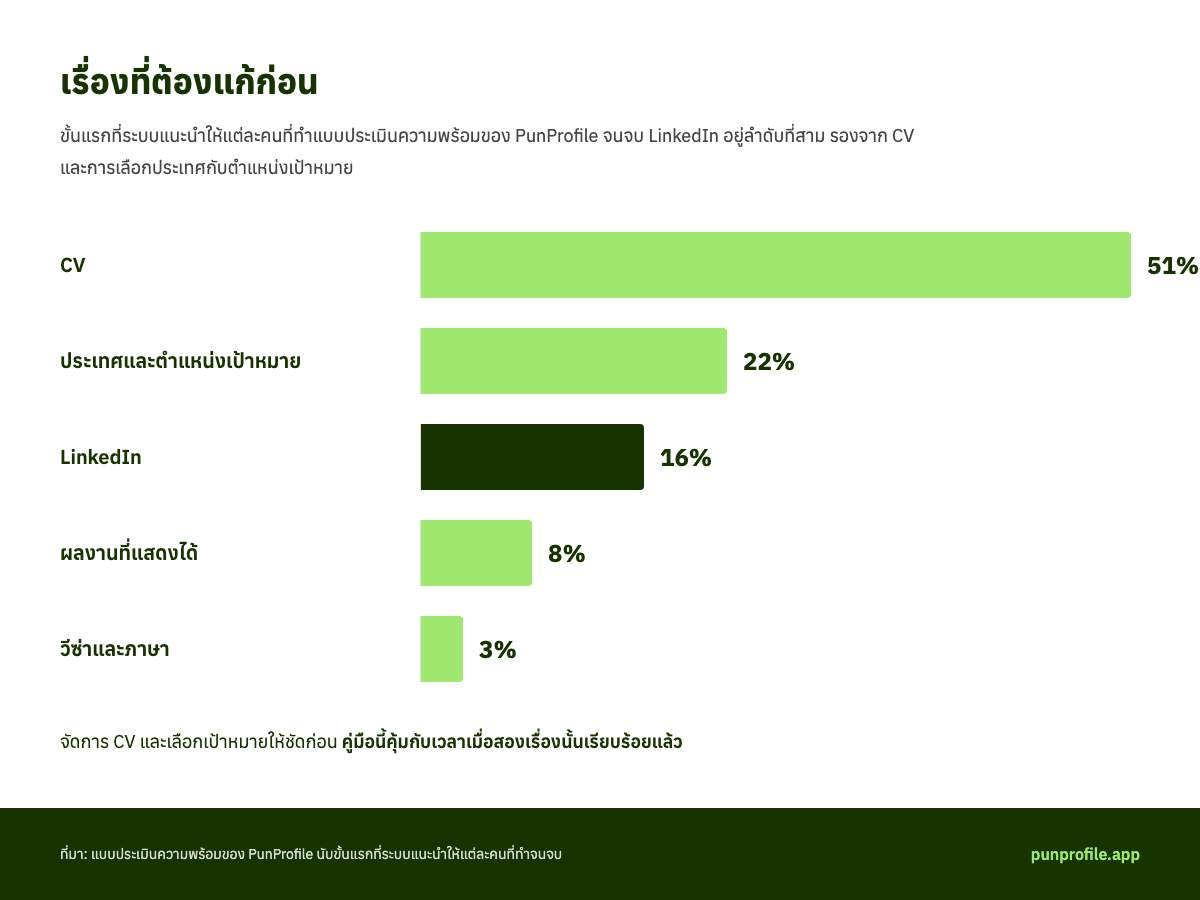
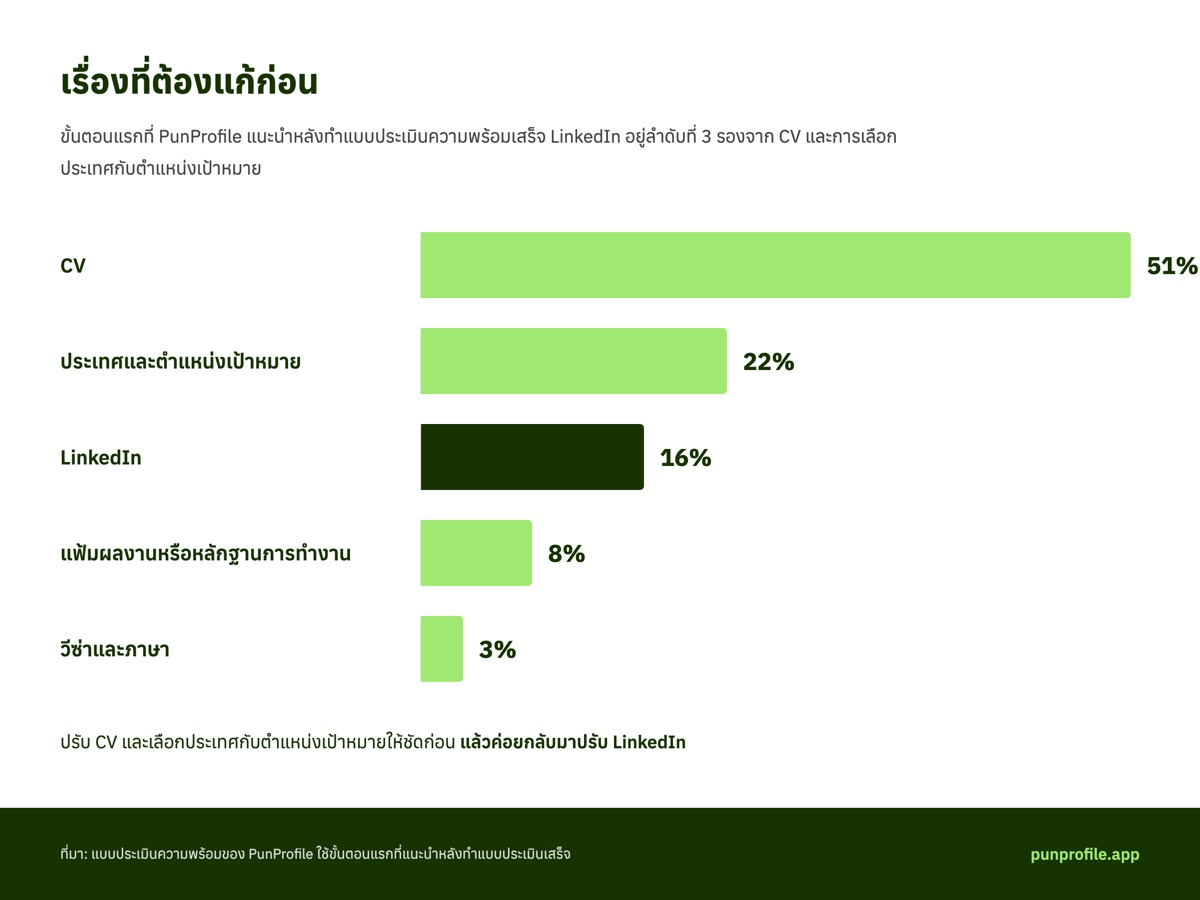
Carry the reviewed figure Thai into the records, and the English with it
Eight records: the hero alt, the SEO title, and the alt and caption on each of the three figures.
Seven took new Thai from the review pass, the SEO title was kept, and all eight now say in their
note that the pass happened.

The English moved with the Thai, because the Thai is the source. One of those is a correctness fix
rather than a translation: figure 3's caption said only the description of the scope changes, when
the employer line changes between the two cards as well. Figure 2's caption gained the limit the
article's own body already carries, that the recruiters-only setting lowers the chance the current
employer sees it without guaranteeing it, and the figure 2 alt text stopped implying the lamp turns
the cards green.

The two published figure images are re-cut from the rebuilt Thai figures.

`text_hash` recomputed for all seven changed records. Provenance stays `draft` and every verdict
stays `pending`: still 97 failures, all of them this article's, and still nothing that will build
until Paul reads the Thai back. Everything else on the pre-push list passes.

diff --git a/src/lib/content/language-notes.generated.ts b/src/lib/content/language-notes.generated.ts
@@ -5605,7 +5605,7 @@ export const LANGUAGE_DECISION_NOTES = {
     "narrativeSlot": "utility",
     "provenance": "draft",
     "date": "10/11/2026",
-    "decisionNote": "Figure, alt and title Thai composed by the agent on 10/11/2026. The delegated copy review of that day covered the article body and NOT this line, and Paul has not read it back, so it is neither reviewed nor approved. English is the agent's own. It is row F in the coaching repo's review sheet for this slug, out for a review pass. Upgrade provenance and set a structural_calque verdict only after that pass and his read-back."
+    "decisionNote": "Figure, alt and title Thai composed on 10/11/2026 and reviewed in a separate agent pass the same day, which the article body's own copy review had not covered. Paul has not read it back, so it is neither paul-written nor paul-approved. The English follows that reviewed Thai. Upgrade provenance and set a structural_calque verdict only after his read-back."
   },
   "src/lib/content/posts/linkedin-europe-ready.ts::LINKEDIN_EUROPE_READY.question": {
     "source": "src/lib/content/posts/linkedin-europe-ready.ts",
@@ -5965,7 +5965,7 @@ export const LANGUAGE_DECISION_NOTES = {
     "narrativeSlot": "utility",
     "provenance": "draft",
     "date": "10/11/2026",
-    "decisionNote": "Figure, alt and title Thai composed by the agent on 10/11/2026. The delegated copy review of that day covered the article body and NOT this line, and Paul has not read it back, so it is neither reviewed nor approved. English is the agent's own. It is row F in the coaching repo's review sheet for this slug, out for a review pass. Upgrade provenance and set a structural_calque verdict only after that pass and his read-back."
+    "decisionNote": "Figure, alt and title Thai composed on 10/11/2026 and reviewed in a separate agent pass the same day, which the article body's own copy review had not covered. Paul has not read it back, so it is neither paul-written nor paul-approved. The English follows that reviewed Thai. Upgrade provenance and set a structural_calque verdict only after his read-back."
   },
   "src/lib/content/posts/linkedin-europe-ready.ts::LINKEDIN_EUROPE_READY.sections[1].body[5].caption": {
     "source": "src/lib/content/posts/linkedin-europe-ready.ts",
@@ -5974,7 +5974,7 @@ export const LANGUAGE_DECISION_NOTES = {
     "narrativeSlot": "utility",
     "provenance": "draft",
     "date": "10/11/2026",
-    "decisionNote": "Figure, alt and title Thai composed by the agent on 10/11/2026. The delegated copy review of that day covered the article body and NOT this line, and Paul has not read it back, so it is neither reviewed nor approved. English is the agent's own. It is row F in the coaching repo's review sheet for this slug, out for a review pass. Upgrade provenance and set a structural_calque verdict only after that pass and his read-back."
+    "decisionNote": "Figure, alt and title Thai composed on 10/11/2026 and reviewed in a separate agent pass the same day, which the article body's own copy review had not covered. Paul has not read it back, so it is neither paul-written nor paul-approved. The English follows that reviewed Thai. Upgrade provenance and set a structural_calque verdict only after his read-back."
   },
   "src/lib/content/posts/linkedin-europe-ready.ts::LINKEDIN_EUROPE_READY.sections[1].body[6].text": {
     "source": "src/lib/content/posts/linkedin-europe-ready.ts",
@@ -6163,7 +6163,7 @@ export const LANGUAGE_DECISION_NOTES = {
     "narrativeSlot": "utility",
     "provenance": "draft",
     "date": "10/11/2026",
-    "decisionNote": "Figure, alt and title Thai composed by the agent on 10/11/2026. The delegated copy review of that day covered the article body and NOT this line, and Paul has not read it back, so it is neither reviewed nor approved. English is the agent's own. It is row F in the coaching repo's review sheet for this slug, out for a review pass. Upgrade provenance and set a structural_calque verdict only after that pass and his read-back."
+    "decisionNote": "Figure, alt and title Thai composed on 10/11/2026 and reviewed in a separate agent pass the same day, which the article body's own copy review had not covered. Paul has not read it back, so it is neither paul-written nor paul-approved. The English follows that reviewed Thai. Upgrade provenance and set a structural_calque verdict only after his read-back."
   },
   "src/lib/content/posts/linkedin-europe-ready.ts::LINKEDIN_EUROPE_READY.sections[4].body[4].caption": {
     "source": "src/lib/content/posts/linkedin-europe-ready.ts",
@@ -6172,7 +6172,7 @@ export const LANGUAGE_DECISION_NOTES = {
     "narrativeSlot": "utility",
     "provenance": "draft",
     "date": "10/11/2026",
-    "decisionNote": "Figure, alt and title Thai composed by the agent on 10/11/2026. The delegated copy review of that day covered the article body and NOT this line, and Paul has not read it back, so it is neither reviewed nor approved. English is the agent's own. It is row F in the coaching repo's review sheet for this slug, out for a review pass. Upgrade provenance and set a structural_calque verdict only after that pass and his read-back."
+    "decisionNote": "Figure, alt and title Thai composed on 10/11/2026 and reviewed in a separate agent pass the same day, which the article body's own copy review had not covered. Paul has not read it back, so it is neither paul-written nor paul-approved. The English follows that reviewed Thai. Upgrade provenance and set a structural_calque verdict only after his read-back."
   },
   "src/lib/content/posts/linkedin-europe-ready.ts::LINKEDIN_EUROPE_READY.sections[4].heading": {
     "source": "src/lib/content/posts/linkedin-europe-ready.ts",
@@ -6217,7 +6217,7 @@ export const LANGUAGE_DECISION_NOTES = {
     "narrativeSlot": "utility",
     "provenance": "draft",
     "date": "10/11/2026",
-    "decisionNote": "Figure, alt and title Thai composed by the agent on 10/11/2026. The delegated copy review of that day covered the article body and NOT this line, and Paul has not read it back, so it is neither reviewed nor approved. English is the agent's own. It is row F in the coaching repo's review sheet for this slug, out for a review pass. Upgrade provenance and set a structural_calque verdict only after that pass and his read-back."
+    "decisionNote": "Figure, alt and title Thai composed on 10/11/2026 and reviewed in a separate agent pass the same day, which the article body's own copy review had not covered. Paul has not read it back, so it is neither paul-written nor paul-approved. The English follows that reviewed Thai. Upgrade provenance and set a structural_calque verdict only after his read-back."
   },
   "src/lib/content/posts/linkedin-europe-ready.ts::LINKEDIN_EUROPE_READY.sections[5].body[3].caption": {
     "source": "src/lib/content/posts/linkedin-europe-ready.ts",
@@ -6226,7 +6226,7 @@ export const LANGUAGE_DECISION_NOTES = {
     "narrativeSlot": "utility",
     "provenance": "draft",
     "date": "10/11/2026",
-    "decisionNote": "Figure, alt and title Thai composed by the agent on 10/11/2026. The delegated copy review of that day covered the article body and NOT this line, and Paul has not read it back, so it is neither reviewed nor approved. English is the agent's own. It is row F in the coaching repo's review sheet for this slug, out for a review pass. Upgrade provenance and set a structural_calque verdict only after that pass and his read-back."
+    "decisionNote": "Figure, alt and title Thai composed on 10/11/2026 and reviewed in a separate agent pass the same day, which the article body's own copy review had not covered. Paul has not read it back, so it is neither paul-written nor paul-approved. The English follows that reviewed Thai. Upgrade provenance and set a structural_calque verdict only after his read-back."
   },
   "src/lib/content/posts/linkedin-europe-ready.ts::LINKEDIN_EUROPE_READY.sections[5].body[4].text": {
     "source": "src/lib/content/posts/linkedin-europe-ready.ts",
@@ -6451,7 +6451,7 @@ export const LANGUAGE_DECISION_NOTES = {
     "narrativeSlot": "utility",
     "provenance": "draft",
     "date": "10/11/2026",
-    "decisionNote": "Figure, alt and title Thai composed by the agent on 10/11/2026. The delegated copy review of that day covered the article body and NOT this line, and Paul has not read it back, so it is neither reviewed nor approved. English is the agent's own. It is row F in the coaching repo's review sheet for this slug, out for a review pass. Upgrade provenance and set a structural_calque verdict only after that pass and his read-back."
+    "decisionNote": "Figure, alt and title Thai composed on 10/11/2026 and reviewed in a separate agent pass the same day, which the article body's own copy review had not covered. Paul has not read it back, so it is neither paul-written nor paul-approved. The English follows that reviewed Thai. Upgrade provenance and set a structural_calque verdict only after his read-back."
   },
   "src/lib/content/posts/linkedin-europe-ready.ts::LINKEDIN_EUROPE_READY.summary": {
     "source": "src/lib/content/posts/linkedin-europe-ready.ts",

diff --git a/src/lib/content/posts/linkedin-europe-ready.ts b/src/lib/content/posts/linkedin-europe-ready.ts
@@ -29,8 +29,8 @@ export const LINKEDIN_EUROPE_READY: Post = {
   image: {
     src: "/blog/linkedin-europe-ready.jpg",
     alt: {
-      th: "ชายดินปั้นยืนข้างแท็บเล็ตที่แสดงหน้าโปรไฟล์ LinkedIn",
-      en: "A clay figure standing beside a tablet showing a LinkedIn profile",
+      th: "ตัวละครดินปั้นยืนข้างแท็บเล็ตที่แสดงโปรไฟล์ LinkedIn ตัวอย่าง",
+      en: "A clay figure standing beside a tablet showing an example LinkedIn profile",
     },
   },
   question: {
@@ -109,12 +109,12 @@ export const LINKEDIN_EUROPE_READY: Post = {
         kind: "figure",
         src: "/blog/linkedin-europe-ready-fig-1-first-action.jpg",
         alt: {
-          th: "แผนภูมิแท่งแสดงเรื่องที่ต้องแก้ก่อน CV มีสัดส่วนมากที่สุด ส่วน LinkedIn อยู่อันดับสาม",
-          en: "A bar chart of what needs fixing first. The CV is the largest share and LinkedIn is third.",
+          th: "กราฟแท่งแสดงสัดส่วนของเรื่องที่ควรแก้ก่อน แถบ CV ยาวที่สุด ส่วน LinkedIn อยู่ลำดับที่ 3",
+          en: "A bar chart of the share for each thing to fix first. The CV bar is the longest and LinkedIn is third.",
         },
         caption: {
-          th: "สัดส่วนของเรื่องที่ต้องแก้ก่อน จากคนไทยที่ทำแบบประเมินความพร้อมของ PunProfile",
-          en: "The share of people for whom each item is the first thing to fix, from PunProfile's readiness check.",
+          th: "สัดส่วนของขั้นตอนแรกที่ PunProfile แนะนำแก่ผู้ที่ทำแบบประเมินความพร้อมเสร็จ",
+          en: "The share of each first step PunProfile assigns to the people who completed its readiness check.",
         },
       },
       {
@@ -263,12 +263,12 @@ export const LINKEDIN_EUROPE_READY: Post = {
         kind: "figure",
         src: "/blog/linkedin-europe-ready-fig-2-who-can-see.jpg",
         alt: {
-          th: "ชายดินปั้นเอียงโคมไฟบนโต๊ะ แสงตกลงบนการ์ดกลางแถว การ์ดที่โดนแสงเป็นสีเขียว ส่วนที่อยู่นอกแสงยังเป็นสีครีม",
-          en: "A clay figure tilts a desk lamp so its light falls on the middle of a row of cards. The lit ones are green.",
+          th: "ตัวละครดินปั้นถือโคมไฟเหนือแถวการ์ดบนโต๊ะ การ์ดตรงกลางเป็นสีเขียว ส่วนการ์ดด้านข้างเป็นสีครีม",
+          en: "A clay figure holds a desk lamp over a row of cards on a table. The cards in the middle are green and the ones to each side are cream.",
         },
         caption: {
-          th: "สามตัวเลือกว่าจะให้ใครเห็นสถานะ Open to Work ของคุณ เก็บไว้ดูเอง เปิดให้ผู้ใช้ LinkedIn Recruiter เห็น หรือเปิดให้สมาชิกทุกคนเห็น",
-          en: "Three settings for who sees your Open to Work status: only you, LinkedIn Recruiter users, or all members.",
+          th: "Open to Work มี 3 ตัวเลือก: เก็บการตั้งค่าไว้ดูเอง ให้เฉพาะผู้ใช้ LinkedIn Recruiter เห็น หรือให้สมาชิกทุกคนเห็น ตัวเลือกเฉพาะ recruiter ช่วยลดโอกาสที่บริษัทปัจจุบันจะเห็น แต่ไม่ได้รับประกันว่าจะซ่อนได้ทั้งหมด",
+          en: "Open to Work has three settings: keep it to yourself, show it to LinkedIn Recruiter users, or show it to every member. The recruiters-only setting lowers the chance your current employer sees it, but it is not a guarantee.",
         },
       },
       ],
@@ -304,12 +304,12 @@ export const LINKEDIN_EUROPE_READY: Post = {
         kind: "figure",
         src: "/blog/linkedin-europe-ready-fig-3-title-rewrite.jpg",
         alt: {
-          th: "การ์ดสองใบวางเทียบกัน ชื่อตำแหน่งเหมือนกัน ต่างกันที่คำอธิบายขอบเขตงาน",
-          en: "Two cards side by side with the same job title, differing only in how the scope is described.",
+          th: "การ์ดสองใบวางเทียบกัน ทั้งสองใบใช้ชื่อตำแหน่งเดียวกัน ส่วนการ์ดด้านขวามีคำอธิบายงานและข้อมูลบริษัทเพิ่ม",
+          en: "Two cards side by side with the same job title. The one on the right adds a description of the work and context on the employer.",
         },
         caption: {
-          th: "ชื่อตำแหน่งเหมือนกันทั้งสองฝั่ง สิ่งที่ต่างคือคำอธิบายขอบเขตงาน ตัวอย่างสมมติ",
-          en: "The job title is identical on both sides. Only the description of the scope changes. An invented example.",
+          th: "ตัวอย่างสมมติที่ใช้ชื่อตำแหน่งเดียวกันทั้งสองฝั่ง ฝั่งขวาอธิบายขอบเขตงานและบริบทบริษัทเพิ่ม",
+          en: "An invented example with the same job title on both sides. The right side adds the scope of the work and context on the employer.",
         },
       },
       {

diff --git a/LANGUAGE-SYSTEM.md b/LANGUAGE-SYSTEM.md
@@ -14885,17 +14885,17 @@ source: src/lib/content/posts/linkedin-europe-ready.ts
 path: LINKEDIN_EUROPE_READY.image.alt
 render: 'Blog article: LinkedIn, made legible to a European recruiter, LINKEDIN_EUROPE_READY.image.alt'
 narrative_slot: utility
-en: "A clay figure standing beside a tablet showing a LinkedIn profile"
-th: "ชายดินปั้นยืนข้างแท็บเล็ตที่แสดงหน้าโปรไฟล์ LinkedIn"
+en: "A clay figure standing beside a tablet showing an example LinkedIn profile"
+th: "ตัวละครดินปั้นยืนข้างแท็บเล็ตที่แสดงโปรไฟล์ LinkedIn ตัวอย่าง"
 provenance: draft
 date: 10/11/2026
 term_bindings: []
-decision_note: "Figure, alt and title Thai composed by the agent on 10/11/2026. The delegated copy review of that day covered the article body and NOT this line, and Paul has not read it back, so it is neither reviewed nor approved. English is the agent's own. It is row F in the coaching repo's review sheet for this slug, out for a review pass. Upgrade provenance and set a structural_calque verdict only after that pass and his read-back."
+decision_note: "Figure, alt and title Thai composed on 10/11/2026 and reviewed in a separate agent pass the same day, which the article body's own copy review had not covered. Paul has not read it back, so it is neither paul-written nor paul-approved. The English follows that reviewed Thai. Upgrade provenance and set a structural_calque verdict only after his read-back."
 review:
   structural_calque: pending
-  text_hash: 82c0e484f8ab8d817455fc6e63b678edcc85c1981cade281b2bed00b9ef5d652
+  text_hash: 1e327e024ceafad2f3115927767dffe47479e0f5550e09b3c06f8f67ef34df39
   prompt_version: structural-calque-v1
-  basis: "Composed 10/11/2026 and not covered by that day's copy review. No review pass and no read-back, so no verdict is claimed."
+  basis: "Composed and then reviewed in an agent pass, both 10/11/2026. No personal read-back by Paul, so no verdict is claimed."
 ```
 
 <!-- COPY-ENTRY -->
@@ -15765,17 +15765,17 @@ source: src/lib/content/posts/linkedin-europe-ready.ts
 path: LINKEDIN_EUROPE_READY.sections[1].body[5].alt
 render: 'Blog article: LinkedIn, made legible to a European recruiter, LINKEDIN_EUROPE_READY.sections[1].body[5].alt'
 narrative_slot: utility
-en: "A bar chart of what needs fixing first. The CV is the largest share and LinkedIn is third."
-th: "แผนภูมิแท่งแสดงเรื่องที่ต้องแก้ก่อน CV มีสัดส่วนมากที่สุด ส่วน LinkedIn อยู่อันดับสาม"
+en: "A bar chart of the share for each thing to fix first. The CV bar is the longest and LinkedIn is third."
+th: "กราฟแท่งแสดงสัดส่วนของเรื่องที่ควรแก้ก่อน แถบ CV ยาวที่สุด ส่วน LinkedIn อยู่ลำดับที่ 3"
 provenance: draft
 date: 10/11/2026
 term_bindings: []
-decision_note: "Figure, alt and title Thai composed by the agent on 10/11/2026. The delegated copy review of that day covered the article body and NOT this line, and Paul has not read it back, so it is neither reviewed nor approved. English is the agent's own. It is row F in the coaching repo's review sheet for this slug, out for a review pass. Upgrade provenance and set a structural_calque verdict only after that pass and his read-back."
+decision_note: "Figure, alt and title Thai composed on 10/11/2026 and reviewed in a separate agent pass the same day, which the article body's own copy review had not covered. Paul has not read it back, so it is neither paul-written nor paul-approved. The English follows that reviewed Thai. Upgrade provenance and set a structural_calque verdict only after his read-back."
 review:
   structural_calque: pending
-  text_hash: 62dd3d60fabf372e2a78dda345f8a6f974ecc23639f38e1ffd8cb6d69ade6203
+  text_hash: 3e4f25ae3b41bfd214f2004f1764430b2b8ac939efbe2ba01d8faef81b6763b7
   prompt_version: structural-calque-v1
-  basis: "Composed 10/11/2026 and not covered by that day's copy review. No review pass and no read-back, so no verdict is claimed."
+  basis: "Composed and then reviewed in an agent pass, both 10/11/2026. No personal read-back by Paul, so no verdict is claimed."
 ```
 
 <!-- COPY-ENTRY -->
@@ -15787,17 +15787,17 @@ source: src/lib/content/posts/linkedin-europe-ready.ts
 path: LINKEDIN_EUROPE_READY.sections[1].body[5].caption
 render: 'Blog article: LinkedIn, made legible to a European recruiter, LINKEDIN_EUROPE_READY.sections[1].body[5].caption'
 narrative_slot: utility
-en: "The share of people for whom each item is the first thing to fix, from PunProfile's readiness check."
-th: "สัดส่วนของเรื่องที่ต้องแก้ก่อน จากคนไทยที่ทำแบบประเมินความพร้อมของ PunProfile"
+en: "The share of each first step PunProfile assigns to the people who completed its readiness check."
+th: "สัดส่วนของขั้นตอนแรกที่ PunProfile แนะนำแก่ผู้ที่ทำแบบประเมินความพร้อมเสร็จ"
 provenance: draft
 date: 10/11/2026
 term_bindings: []
-decision_note: "Figure, alt and title Thai composed by the agent on 10/11/2026. The delegated copy review of that day covered the article body and NOT this line, and Paul has not read it back, so it is neither reviewed nor approved. English is the agent's own. It is row F in the coaching repo's review sheet for this slug, out for a review pass. Upgrade provenance and set a structural_calque verdict only after that pass and his read-back."
+decision_note: "Figure, alt and title Thai composed on 10/11/2026 and reviewed in a separate agent pass the same day, which the article body's own copy review had not covered. Paul has not read it back, so it is neither paul-written nor paul-approved. The English follows that reviewed Thai. Upgrade provenance and set a structural_calque verdict only after his read-back."
 review:
   structural_calque: pending
-  text_hash: ddd1895b711f37e7c00ebce4dc0fc7791a9ebd5c394200abd3c30b4b53f816d6
+  text_hash: bf175e00a9ed37a3700cc81da1d5f16e6d39ffb3099a630717d893100647a1b8
   prompt_version: structural-calque-v1
-  basis: "Composed 10/11/2026 and not covered by that day's copy review. No review pass and no read-back, so no verdict is claimed."
+  basis: "Composed and then reviewed in an agent pass, both 10/11/2026. No personal read-back by Paul, so no verdict is claimed."
 ```
 
 <!-- COPY-ENTRY -->
@@ -16249,17 +16249,17 @@ source: src/lib/content/posts/linkedin-europe-ready.ts
 path: LINKEDIN_EUROPE_READY.sections[4].body[4].alt
 render: 'Blog article: LinkedIn, made legible to a European recruiter, LINKEDIN_EUROPE_READY.sections[4].body[4].alt'
 narrative_slot: utility
-en: "A clay figure tilts a desk lamp so its light falls on the middle of a row of cards. The lit ones are green."
-th: "ชายดินปั้นเอียงโคมไฟบนโต๊ะ แสงตกลงบนการ์ดกลางแถว การ์ดที่โดนแสงเป็นสีเขียว ส่วนที่อยู่นอกแสงยังเป็นสีครีม"
+en: "A clay figure holds a desk lamp over a row of cards on a table. The cards in the middle are green and the ones to each side are cream."
+th: "ตัวละครดินปั้นถือโคมไฟเหนือแถวการ์ดบนโต๊ะ การ์ดตรงกลางเป็นสีเขียว ส่วนการ์ดด้านข้างเป็นสีครีม"
 provenance: draft
 date: 10/11/2026
 term_bindings: []
-decision_note: "Figure, alt and title Thai composed by the agent on 10/11/2026. The delegated copy review of that day covered the article body and NOT this line, and Paul has not read it back, so it is neither reviewed nor approved. English is the agent's own. It is row F in the coaching repo's review sheet for this slug, out for a review pass. Upgrade provenance and set a structural_calque verdict only after that pass and his read-back."
+decision_note: "Figure, alt and title Thai composed on 10/11/2026 and reviewed in a separate agent pass the same day, which the article body's own copy review had not covered. Paul has not read it back, so it is neither paul-written nor paul-approved. The English follows that reviewed Thai. Upgrade provenance and set a structural_calque verdict only after his read-back."
 review:
   structural_calque: pending
-  text_hash: 22814b6f9ae5275faac1264a4c419ce9df403ce0fef9cff1fec476cc317f7686
+  text_hash: bdfc6c3a3e944c8c34a03dd1529bbc445b62382d3cbcb8c7886834f387039c59
   prompt_version: structural-calque-v1
-  basis: "Composed 10/11/2026 and not covered by that day's copy review. No review pass and no read-back, so no verdict is claimed."
+  basis: "Composed and then reviewed in an agent pass, both 10/11/2026. No personal read-back by Paul, so no verdict is claimed."
 ```
 
 <!-- COPY-ENTRY -->
@@ -16271,17 +16271,17 @@ source: src/lib/content/posts/linkedin-europe-ready.ts
 path: LINKEDIN_EUROPE_READY.sections[4].body[4].caption
 render: 'Blog article: LinkedIn, made legible to a European recruiter, LINKEDIN_EUROPE_READY.sections[4].body[4].caption'
 narrative_slot: utility
-en: "Three settings for who sees your Open to Work status: only you, LinkedIn Recruiter users, or all members."
-th: "สามตัวเลือกว่าจะให้ใครเห็นสถานะ Open to Work ของคุณ เก็บไว้ดูเอง เปิดให้ผู้ใช้ LinkedIn Recruiter เห็น หรือเปิดให้สมาชิกทุกคนเห็น"
+en: "Open to Work has three settings: keep it to yourself, show it to LinkedIn Recruiter users, or show it to every member. The recruiters-only setting lowers the chance your current employer sees it, but it is not a guarantee."
+th: "Open to Work มี 3 ตัวเลือก: เก็บการตั้งค่าไว้ดูเอง ให้เฉพาะผู้ใช้ LinkedIn Recruiter เห็น หรือให้สมาชิกทุกคนเห็น ตัวเลือกเฉพาะ recruiter ช่วยลดโอกาสที่บริษัทปัจจุบันจะเห็น แต่ไม่ได้รับประกันว่าจะซ่อนได้ทั้งหมด"
 provenance: draft
 date: 10/11/2026
 term_bindings: []
-decision_note: "Figure, alt and title Thai composed by the agent on 10/11/2026. The delegated copy review of that day covered the article body and NOT this line, and Paul has not read it back, so it is neither reviewed nor approved. English is the agent's own. It is row F in the coaching repo's review sheet for this slug, out for a review pass. Upgrade provenance and set a structural_calque verdict only after that pass and his read-back."
+decision_note: "Figure, alt and title Thai composed on 10/11/2026 and reviewed in a separate agent pass the same day, which the article body's own copy review had not covered. Paul has not read it back, so it is neither paul-written nor paul-approved. The English follows that reviewed Thai. Upgrade provenance and set a structural_calque verdict only after his read-back."
 review:
   structural_calque: pending
-  text_hash: 6a9de8e65a386a2c7928ae55c9f0b97f62c9336faa48f9f133c4389c53a22c3a
+  text_hash: 7aeadda3a416022d848de5f4f6e9e3fbee463eedd5aa9de6a7c009d71f616ce5
   prompt_version: structural-calque-v1
-  basis: "Composed 10/11/2026 and not covered by that day's copy review. No review pass and no read-back, so no verdict is claimed."
+  basis: "Composed and then reviewed in an agent pass, both 10/11/2026. No personal read-back by Paul, so no verdict is claimed."
 ```
 
 <!-- COPY-ENTRY -->
@@ -16381,17 +16381,17 @@ source: src/lib/content/posts/linkedin-europe-ready.ts
 path: LINKEDIN_EUROPE_READY.sections[5].body[3].alt
 render: 'Blog article: LinkedIn, made legible to a European recruiter, LINKEDIN_EUROPE_READY.sections[5].body[3].alt'
 narrative_slot: utility
-en: "Two cards side by side with the same job title, differing only in how the scope is described."
-th: "การ์ดสองใบวางเทียบกัน ชื่อตำแหน่งเหมือนกัน ต่างกันที่คำอธิบายขอบเขตงาน"
+en: "Two cards side by side with the same job title. The one on the right adds a description of the work and context on the employer."
+th: "การ์ดสองใบวางเทียบกัน ทั้งสองใบใช้ชื่อตำแหน่งเดียวกัน ส่วนการ์ดด้านขวามีคำอธิบายงานและข้อมูลบริษัทเพิ่ม"
 provenance: draft
 date: 10/11/2026
 term_bindings: []
-decision_note: "Figure, alt and title Thai composed by the agent on 10/11/2026. The delegated copy review of that day covered the article body and NOT this line, and Paul has not read it back, so it is neither reviewed nor approved. English is the agent's own. It is row F in the coaching repo's review sheet for this slug, out for a review pass. Upgrade provenance and set a structural_calque verdict only after that pass and his read-back."
+decision_note: "Figure, alt and title Thai composed on 10/11/2026 and reviewed in a separate agent pass the same day, which the article body's own copy review had not covered. Paul has not read it back, so it is neither paul-written nor paul-approved. The English follows that reviewed Thai. Upgrade provenance and set a structural_calque verdict only after his read-back."
 review:
   structural_calque: pending
-  text_hash: 69c3b643ec6180a9c50b332c03f54df70c42b2fe521028bf50916fe8133475c3
+  text_hash: 25ce8d8deb23ef92a8bda9e044eeede61b32f202cda597b86a57c3127462bb7e
   prompt_version: structural-calque-v1
-  basis: "Composed 10/11/2026 and not covered by that day's copy review. No review pass and no read-back, so no verdict is claimed."
+  basis: "Composed and then reviewed in an agent pass, both 10/11/2026. No personal read-back by Paul, so no verdict is claimed."
 ```
 
 <!-- COPY-ENTRY -->
@@ -16403,17 +16403,17 @@ source: src/lib/content/posts/linkedin-europe-ready.ts
 path: LINKEDIN_EUROPE_READY.sections[5].body[3].caption
 render: 'Blog article: LinkedIn, made legible to a European recruiter, LINKEDIN_EUROPE_READY.sections[5].body[3].caption'
 narrative_slot: utility
-en: "The job title is identical on both sides. Only the description of the scope changes. An invented example."
-th: "ชื่อตำแหน่งเหมือนกันทั้งสองฝั่ง สิ่งที่ต่างคือคำอธิบายขอบเขตงาน ตัวอย่างสมมติ"
+en: "An invented example with the same job title on both sides. The right side adds the scope of the work and context on the employer."
+th: "ตัวอย่างสมมติที่ใช้ชื่อตำแหน่งเดียวกันทั้งสองฝั่ง ฝั่งขวาอธิบายขอบเขตงานและบริบทบริษัทเพิ่ม"
 provenance: draft
 date: 10/11/2026
 term_bindings: []
-decision_note: "Figure, alt and title Thai composed by the agent on 10/11/2026. The delegated copy review of that day covered the article body and NOT this line, and Paul has not read it back, so it is neither reviewed nor approved. English is the agent's own. It is row F in the coaching repo's review sheet for this slug, out for a review pass. Upgrade provenance and set a structural_calque verdict only after that pass and his read-back."
+decision_note: "Figure, alt and title Thai composed on 10/11/2026 and reviewed in a separate agent pass the same day, which the article body's own copy review had not covered. Paul has not read it back, so it is neither paul-written nor paul-approved. The English follows that reviewed Thai. Upgrade provenance and set a structural_calque verdict only after his read-back."
 review:
   structural_calque: pending
-  text_hash: 529cf4025410dbd15f39f4d155d7533108d72562e20b8d9525e1dc791ea7e80f
+  text_hash: c7f278cde150568718627396025a980f93ceaf07a26dbba2e08d77dbf48fdc81
   prompt_version: structural-calque-v1
-  basis: "Composed 10/11/2026 and not covered by that day's copy review. No review pass and no read-back, so no verdict is claimed."
+  basis: "Composed and then reviewed in an agent pass, both 10/11/2026. No personal read-back by Paul, so no verdict is claimed."
 ```
 
 <!-- COPY-ENTRY -->
@@ -16958,12 +16958,12 @@ th: "ปรับโปรไฟล์ LinkedIn ให้ recruiter ในยุ
 provenance: draft
 date: 10/11/2026
 term_bindings: []
-decision_note: "Figure, alt and title Thai composed by the agent on 10/11/2026. The delegated copy review of that day covered the article body and NOT this line, and Paul has not read it back, so it is neither reviewed nor approved. English is the agent's own. It is row F in the coaching repo's review sheet for this slug, out for a review pass. Upgrade provenance and set a structural_calque verdict only after that pass and his read-back."
+decision_note: "Figure, alt and title Thai composed on 10/11/2026 and reviewed in a separate agent pass the same day, which the article body's own copy review had not covered. Paul has not read it back, so it is neither paul-written nor paul-approved. The English follows that reviewed Thai. Upgrade provenance and set a structural_calque verdict only after his read-back."
 review:
   structural_calque: pending
   text_hash: a7ee2ed8eb9d70202a0b8b049f457a47510b9b003df66d9328609554a29ab4d3
   prompt_version: structural-calque-v1
-  basis: "Composed 10/11/2026 and not covered by that day's copy review. No review pass and no read-back, so no verdict is claimed."
+  basis: "Composed and then reviewed in an agent pass, both 10/11/2026. No personal read-back by Paul, so no verdict is claimed."
 ```
 
 <!-- COPY-ENTRY -->
